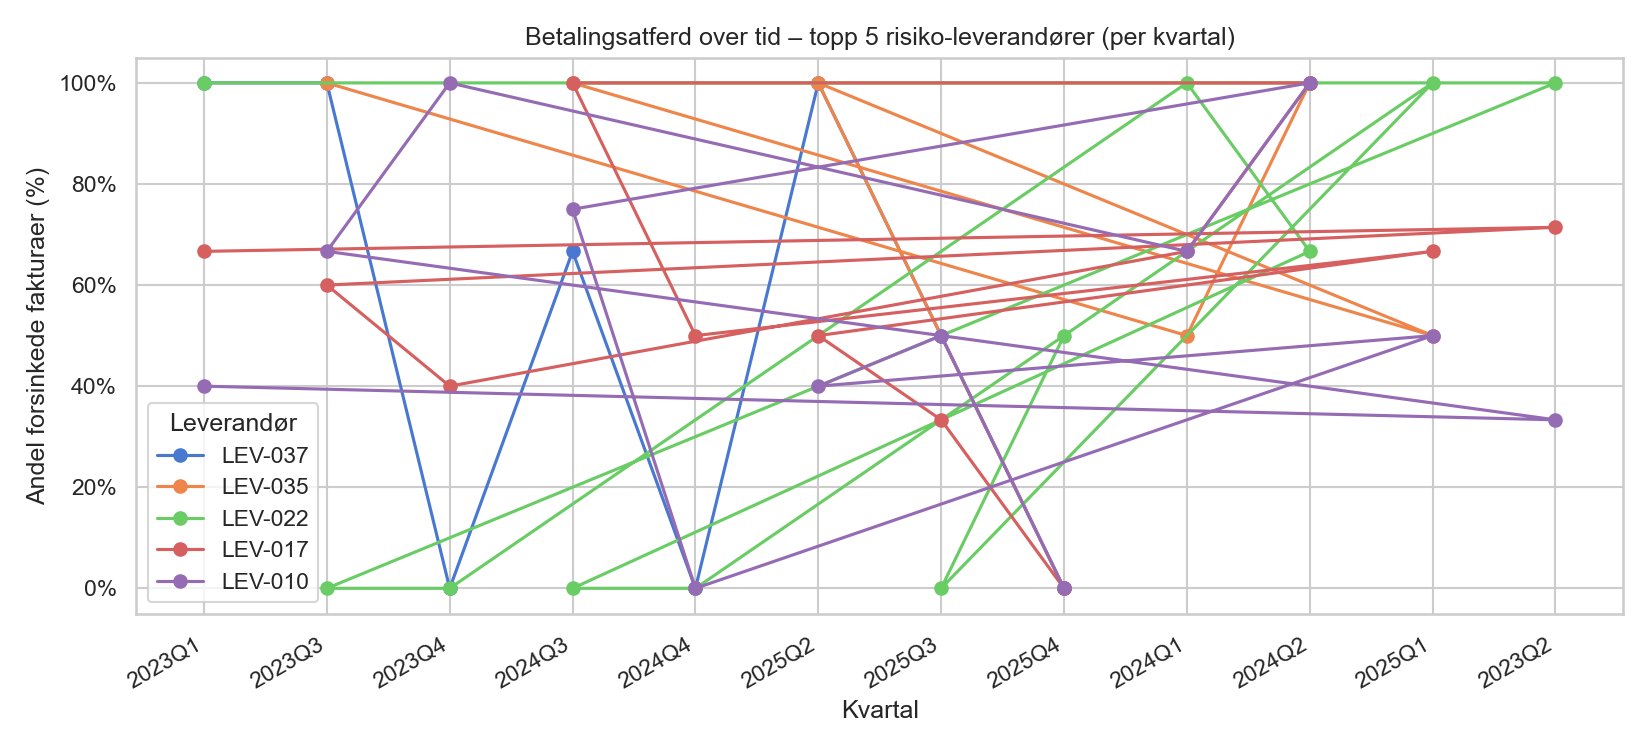
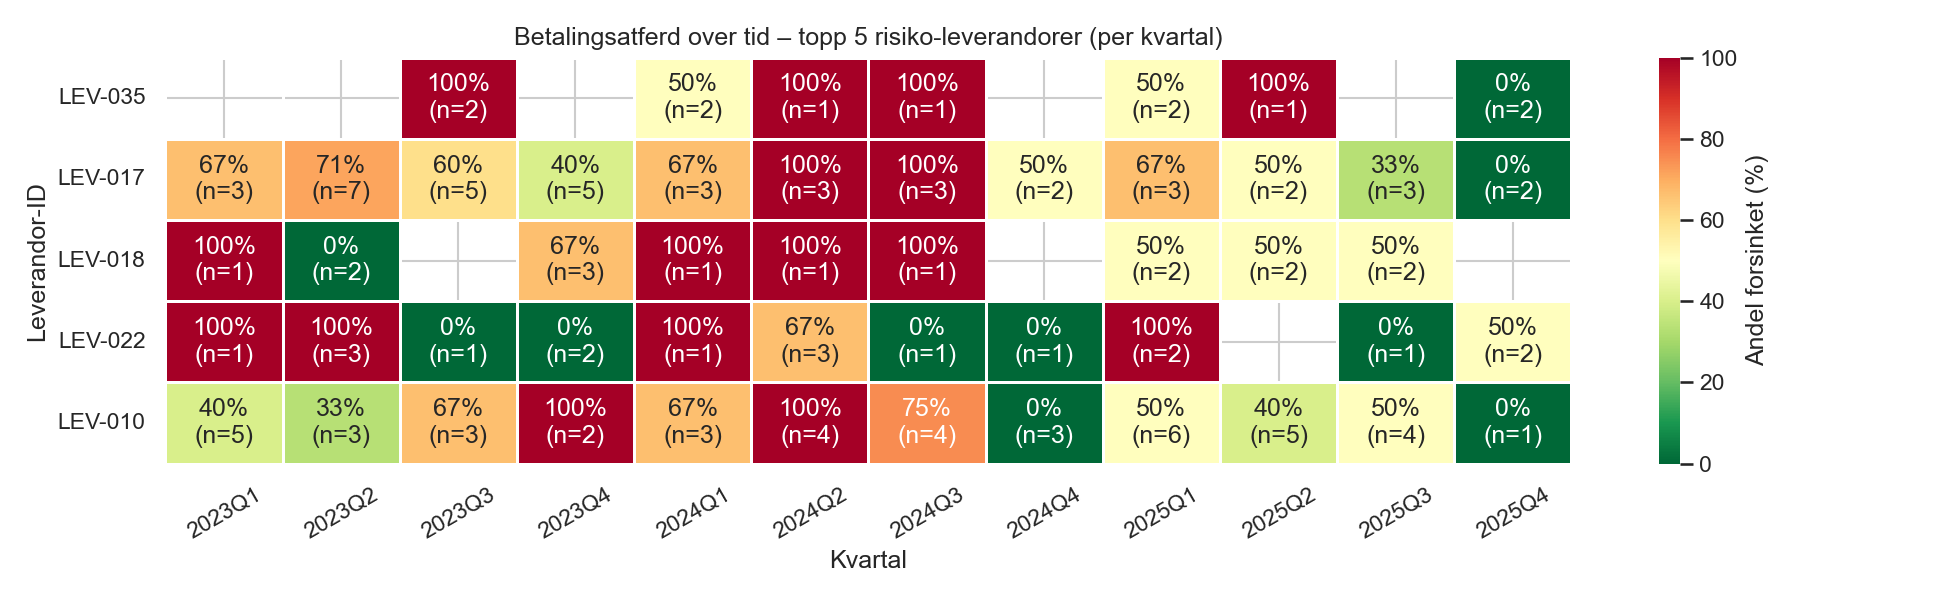
endringer figur 9

diff --git a/004 data/eda.py b/004 data/eda.py
@@ -349,32 +349,56 @@ plt.savefig(OUTDIR / "08_leverandor_scatter.png", dpi=150)
 plt.close()
 print("  → Figur lagret: 08_leverandor_scatter.png")
 
-# ── D. Figur: Betalingsatferd over tid (kvartal) – topp 5 leverandører ──
+# ── D. Figur: Betalingsatferd over tid – heatmap (topp 5 leverandører) ──
 print("\n" + "-" * 60)
-print("  Betalingsatferd over tid – topp 5 risiko-leverandører")
+print("  Betalingsatferd over tid – topp 5 risiko-leverandører (heatmap)")
 print("-" * 60)
 
 df["år_kvartal"] = df["Fakturadato"].dt.to_period("Q").astype(str)
 topp5_lev = lev.head(5)["Leverandør-ID"].tolist()
 df_topp5 = df[df["Leverandør-ID"].isin(topp5_lev)]
 
-trend = (
-    df_topp5.groupby(["Leverandør-ID", "år_kvartal"])["er_forsinket"]
-    .mean()
-    .reset_index()
-)
-trend["er_forsinket"] *= 100
+# Aggreger: andel forsinket (%) og antall fakturaer per leverandør/kvartal
+trend_grp = df_topp5.groupby(["Leverandør-ID", "år_kvartal"])["er_forsinket"]
+trend_pct = (trend_grp.mean() * 100).rename("pct")
+trend_n   = trend_grp.count().rename("n")
+trend = pd.concat([trend_pct, trend_n], axis=1).reset_index()
 
-fig, ax = plt.subplots(figsize=(11, 5))
-for lev_id in topp5_lev:
-    data = trend[trend["Leverandør-ID"] == lev_id].sort_values("år_kvartal")
-    ax.plot(data["år_kvartal"], data["er_forsinket"], marker="o", label=lev_id)
-ax.set_xlabel("Kvartal")
-ax.set_ylabel("Andel forsinkede fakturaer (%)")
+# Pivot til matrise: rader = leverandør, kolonner = kvartal (sortert)
+alle_kvartaler = sorted(df["år_kvartal"].unique())
+heat = trend.pivot(index="Leverandør-ID", columns="år_kvartal", values="pct").reindex(
+    index=topp5_lev, columns=alle_kvartaler
+)
+heat_n = trend.pivot(index="Leverandør-ID", columns="år_kvartal", values="n").reindex(
+    index=topp5_lev, columns=alle_kvartaler
+)
+
+# Lag annoteringmatrise: "XX%\n(n=k)" — tom celle hvis ingen fakturaer
+annot = pd.DataFrame("", index=heat.index, columns=heat.columns)
+for r in heat.index:
+    for c in heat.columns:
+        v = heat.loc[r, c]
+        k = heat_n.loc[r, c]
+        if pd.notna(v):
+            annot.loc[r, c] = f"{v:.0f}%\n(n={int(k)})"
+
+fig, ax = plt.subplots(figsize=(13, 4))
+sns.heatmap(
+    heat,
+    annot=annot,
+    fmt="",
+    cmap="RdYlGn_r",
+    vmin=0, vmax=100,
+    linewidths=0.5,
+    linecolor="white",
+    cbar_kws={"label": "Andel forsinket (%)"},
+    ax=ax,
+)
 ax.set_title("Betalingsatferd over tid – topp 5 risiko-leverandører (per kvartal)")
-ax.legend(title="Leverandør")
-plt.xticks(rotation=30, ha="right")
-ax.yaxis.set_major_formatter(mticker.FormatStrFormatter("%.0f%%"))
+ax.set_xlabel("Kvartal")
+ax.set_ylabel("Leverandør-ID")
+ax.tick_params(axis="x", rotation=30)
+ax.tick_params(axis="y", rotation=0)
 plt.tight_layout()
 plt.savefig(OUTDIR / "09_leverandor_trend.png", dpi=150)
 plt.close()

diff --git a/014 fase 4 - report/rapport_mal.md b/014 fase 4 - report/rapport_mal.md
@@ -604,23 +604,23 @@ Prosjektet demonstrerer at maskinlæringsbasert fakturapredikering er gjennomfø
 
 Anthropic. (2025). *Claude Code* (claude-sonnet-4-6) [KI-programmeringsassistent]. https://claude.ai/code
 
-Appel, A. P., Oliveira, V., Lima, B., Malfatti, G. L., Santana, V. F., & Paula, R. (2019). *Optimize cash collection: Use machine learning to predicting invoice payment* (arXiv:1912.10828). arXiv. https://arxiv.org/abs/1912.10828
+Appel, A. P., Oliveira, V., Lima, B., Malfatti, G. L., Santana, V. F. & Paula, R. (2019). *Optimize cash collection: Use machine learning to predicting invoice payment* (arXiv:1912.10828). arXiv. https://arxiv.org/abs/1912.10828
 
 Breiman, L. (2001). Random forests. *Machine Learning, 45*(1), 5–32. https://doi.org/10.1023/A:1010933404324
 
-Chen, T., & Guestrin, C. (2016). XGBoost: A scalable tree boosting system. *Proceedings of the 22nd ACM SIGKDD International Conference on Knowledge Discovery and Data Mining*, 785–794. https://doi.org/10.1145/2939672.2939785
+Chen, T. & Guestrin, C. (2016). XGBoost: A scalable tree boosting system. *Proceedings of the 22nd ACM SIGKDD International Conference on Knowledge Discovery and Data Mining*, 785–794. https://doi.org/10.1145/2939672.2939785
 
-Gama, J., Žliobaitė, I., Bifet, A., Pechenizkiy, M., & Bouchachia, A. (2014). A survey on concept drift adaptation. *ACM Computing Surveys, 46*(4), 44:1–44:37. https://doi.org/10.1145/2523813
+Gama, J., Žliobaitė, I., Bifet, A., Pechenizkiy, M. & Bouchachia, A. (2014). A survey on concept drift adaptation. *ACM Computing Surveys, 46*(4), 44:1–44:37. https://doi.org/10.1145/2523813
 
-Hastie, T., Tibshirani, R., & Friedman, J. (2009). *The elements of statistical learning: Data mining, inference, and prediction* (2. utg.). Springer.
+Hastie, T., Tibshirani, R. & Friedman, J. (2009). *The elements of statistical learning: Data mining, inference, and prediction* (2. utg.). Springer.
 
-James, G., Witten, D., Hastie, T., & Tibshirani, R. (2021). *An introduction to statistical learning: With applications in R* (2. utg.). Springer.
+James, G., Witten, D., Hastie, T. & Tibshirani, R. (2021). *An introduction to statistical learning: With applications in R* (2. utg.). Springer.
 
-Kuhn, M., & Johnson, K. (2019). *Feature engineering and selection: A practical approach for predictive models*. CRC Press.
+Kuhn, M. & Johnson, K. (2019). *Feature engineering and selection: A practical approach for predictive models*. CRC Press.
 
-Schoonbee, L., Moore, W. R., & van Vuuren, J. H. (2022). A machine-learning approach towards solving the invoice payment prediction problem. *South African Journal of Industrial Engineering, 33*(4), 126–146. https://doi.org/10.7166/33-4-2726
+Schoonbee, L., Moore, W. R. & van Vuuren, J. H. (2022). A machine-learning approach towards solving the invoice payment prediction problem. *South African Journal of Industrial Engineering, 33*(4), 126–146. https://doi.org/10.7166/33-4-2726
 
-Turban, E., Sharda, R., & Delen, D. (2011). *Decision support and business intelligence systems* (9. utg.). Pearson.
+Turban, E., Sharda, R. & Delen, D. (2011). *Decision support and business intelligence systems* (9. utg.). Pearson.
 
 ---
 
